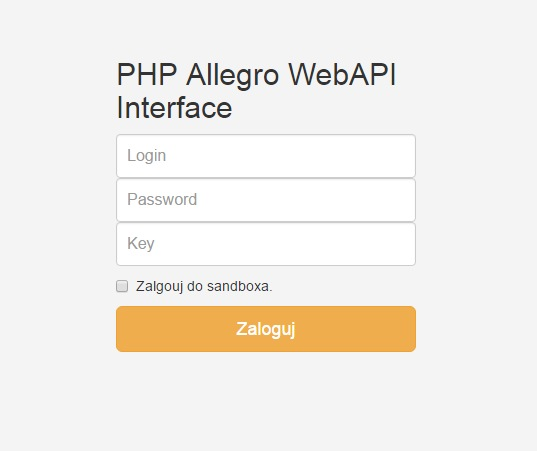
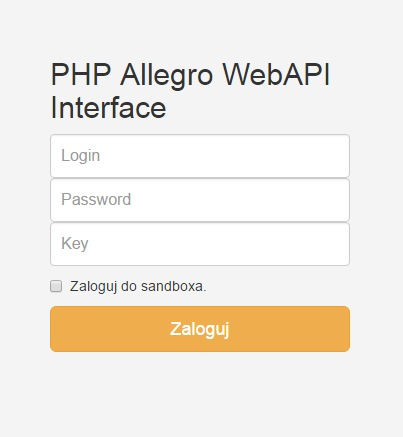
Add footer and header.php

Changed region(s): [[0.1191, 0.2975, 0.8933, 0.833], [0.1191, 0.119, 0.8337, 0.2677], [0.7444, 0.5652, 0.7742, 0.595]]

diff --git a/sell.php b/sell.php
@@ -18,69 +18,17 @@ if(!isset($_SESSION['logged']))
 
 ?>
 
-<!DOCTYPE html>
-<html lang="pl">
-  <head>
-    <meta charset="utf-8">
-    <meta name="viewport" content="width=device-width, initial-scale=1">
-    <meta name="description" content="">
-    <meta name="author" content="">
+<?php include 'includes/header.php'; ?>
 
-    <title>API Dashboard</title>
-
-    <link href="css/bootstrap.css" rel="stylesheet">
-    <link href="css/dashboard.css" rel="stylesheet">
-
-  </head>
-
-  <body>
-
-    <nav class="navbar navbar-inverse navbar-fixed-top">
-      <div class="container-fluid">
-        <div class="navbar-header">
-          <button type="button" class="navbar-toggle collapsed" data-toggle="collapse" data-target="#navbar" aria-expanded="false" aria-controls="navbar">
-            <span class="sr-only">Toggle navigation</span>
-            <span class="icon-bar"></span>
-            <span class="icon-bar"></span>
-            <span class="icon-bar"></span>
-          </button>
-          <a class="navbar-brand" href="#">Allegro API <?php if($_SESSION['sandbox_check'] == true) echo Sandbox ?> </a>
-        </div>
-        <div id="navbar" class="navbar-collapse collapse">
-          <ul class="nav navbar-nav navbar-right">
-            <li><a href="#">Dashboard</a></li>
-            <li><a href="#"><?php echo $username ?> </a></li>
-            <li><a href="logout.php">Wyloguj</a></li>
-          </ul>
-          <form class="navbar-form navbar-right">
-            <input type="text" class="form-control" placeholder="Search...">
-          </form>
-        </div>
-      </div>
-    </nav>
-
-<div class="container-fluid">
-      <div class="row">
-        <div class="col-sm-3 col-md-2 sidebar">
-          <ul class="nav nav-sidebar">
-            <li><a href="panel.php">Panel</a></li>
-            <li  class="active"><a href="sell.php">Sprzedaję</a></li>
-            <li><a href="#">Analytics</a></li>
-          </ul>
-          <ul class="nav nav-sidebar">
-            <li><a href="fids.php">Lista FID-ów</a></li>
-            <li><a href="">Nav item again</a></li>
-
-          </ul>
-          <ul class="nav nav-sidebar">
-            <li><a href="">Nav item again</a></li>
-            <li><a href="">One more nav</a></li>
-          </ul>
-        </div>
-        <div class="col-sm-9 col-sm-offset-3 col-md-10 col-md-offset-2 main">
           <h1 class="page-header">Dashboard</h1>
-
 <?php
+
+$sell_count = $client -> doMyAccountItemsCount( array(
+   'sessionHandle' => $session_handle,
+   'accountType' => 'sell',
+   'itemsArray' => array()
+    )
+);
 
 $sell = $client -> doMyAccount2( array(
     'sessionHandle' => $session_handle,
@@ -90,19 +38,13 @@ $sell = $client -> doMyAccount2( array(
     'limit' => 10
     )
 );
+echo "Ofert w kategorii Sprzedaję: ".$sell_count->myaccountItemsCount."<br><br>";
 
 print_r ($sell);
 echo "<br><hr><br>";
 
-print_r ( $sell->myaccountList->item ); //->item[0]
+print_r ( $sell->myaccountList->item[0] ); // - = pierwsza z ofert, 1 druga itp
 
 ?>
 
-        </div>
-      </div>
-    </div>
-
-    
-    
-    </body>
-</html>
+<?php include 'includes/footer.php'; ?>

diff --git a/fids.php b/fids.php
@@ -18,68 +18,9 @@ if(!isset($_SESSION['logged']))
 
 ?>
 
-<!DOCTYPE html>
-<html lang="pl">
-  <head>
-    <meta charset="utf-8">
-    <meta name="viewport" content="width=device-width, initial-scale=1">
-    <meta name="description" content="">
-    <meta name="author" content="">
+<?php include 'includes/header.php'; ?>
 
-    <title>API Dashboard</title>
-
-    <link href="css/bootstrap.css" rel="stylesheet">
-    <link href="css/dashboard.css" rel="stylesheet">
-    <link href="css/style.css" rel="stylesheet">
-
-  </head>
-
-  <body>
-
-    <nav class="navbar navbar-inverse navbar-fixed-top">
-      <div class="container-fluid">
-        <div class="navbar-header">
-          <button type="button" class="navbar-toggle collapsed" data-toggle="collapse" data-target="#navbar" aria-expanded="false" aria-controls="navbar">
-            <span class="sr-only">Toggle navigation</span>
-            <span class="icon-bar"></span>
-            <span class="icon-bar"></span>
-            <span class="icon-bar"></span>
-          </button>
-          <a class="navbar-brand" href="#">Allegro API <?php if($_SESSION['sandbox_check'] == true) echo Sandbox ?> </a>
-        </div>
-        <div id="navbar" class="navbar-collapse collapse">
-          <ul class="nav navbar-nav navbar-right">
-            <li><a href="#">Dashboard</a></li>
-            <li><a href="#"><?php echo $username ?> </a></li>
-            <li><a href="logout.php">Wyloguj</a></li>
-          </ul>
-          <form class="navbar-form navbar-right">
-            <input type="text" class="form-control" placeholder="Search..." id="search_field">
-          </form>
-        </div>
-      </div>
-    </nav>
-
-  <div class="container-fluid">
-      <div class="row">
-        <div class="col-sm-3 col-md-2 sidebar">
-          <ul class="nav nav-sidebar">
-            <li><a href="panel.php">Panel</a></li>
-            <li><a href="sell.php">Sprzedaję</a></li>
-            <li><a href="#">Analytics</a></li>
-          </ul>
-          <ul class="nav nav-sidebar">
-            <li  class="active"><a href="fids.php">Lista FID-ów</a></li>
-            <li><a href="">Nav item again</a></li>
-
-          </ul>
-          <ul class="nav nav-sidebar">
-            <li><a href="">Nav item again</a></li>
-            <li><a href="">One more nav</a></li>
-          </ul>
-        </div>
-        <div class="col-sm-9 col-sm-offset-3 col-md-10 col-md-offset-2 main">
-          <h1 class="page-header">Lista FID-ów</h1>
+  <h1 class="page-header">Lista FID-ów</h1>
 
 
 <?php
@@ -107,13 +48,4 @@ echo '</table>';
 
 ?>
 
-
-        </div>
-      </div>
-    </div>
-
-    
-    <script type="text/javascript" src="js/jquery3.js"></script>
-    <script type="text/javascript" src="js/fid_search.js"></script>
-    </body>
-</html>
+<?php include 'includes/footer.php'; ?>

diff --git a/panel.php b/panel.php
@@ -18,76 +18,8 @@ if(!isset($_SESSION['logged']))
 
 ?>
 
-<!DOCTYPE html>
-<html lang="pl">
-  <head>
-    <meta charset="utf-8">
-    <meta name="viewport" content="width=device-width, initial-scale=1">
-    <meta name="description" content="">
-    <meta name="author" content="">
+<?php include 'includes/header.php'; ?>
 
-    <title>API Dashboard</title>
-
-    <link href="css/bootstrap.css" rel="stylesheet">
-    <link href="css/dashboard.css" rel="stylesheet">
-    <link href="css/style.css" rel="stylesheet">
-
-  </head>
-
-  <body>
-
-    <nav class="navbar navbar-inverse navbar-fixed-top">
-      <div class="container-fluid">
-        <div class="navbar-header">
-          <button type="button" class="navbar-toggle collapsed" data-toggle="collapse" data-target="#navbar" aria-expanded="false" aria-controls="navbar">
-            <span class="sr-only">Toggle navigation</span>
-            <span class="icon-bar"></span>
-            <span class="icon-bar"></span>
-            <span class="icon-bar"></span>
-          </button>
-          <a class="navbar-brand" href="#">Allegro API <?php if($_SESSION['sandbox_check'] == true) echo Sandbox ?> </a>
-        </div>
-        <div id="navbar" class="navbar-collapse collapse">
-          <ul class="nav navbar-nav navbar-right">
-            <li><a href="#">Dashboard</a></li>
-            <li><a href="#"><?php echo $username ?> </a></li>
-            <li><a href="logout.php">Wyloguj</a></li>
-          </ul>
-          <form class="navbar-form navbar-right">
-            <input type="text" class="form-control" placeholder="Search...">
-          </form>
-        </div>
-      </div>
-    </nav>
-
-    <div class="container-fluid">
-      <div class="row">
-        <div class="col-sm-3 col-md-2 sidebar">
-          <ul class="nav nav-sidebar">
-            <li class="active"><a href="panel.php">Panel</a></li>
-            <li><a href="sell.php">Sprzedaję</a></li>
-            <li><a href="#">Analytics</a></li>
-          </ul>
-          <ul class="nav nav-sidebar">
-            <li><a href="fids.php">Lista FID-ów</a></li>
-            <li><a href="">Nav item again</a></li>
-
-          </ul>
-          <ul class="nav nav-sidebar">
-            <li><a href="">Nav item again</a></li>
-            <li><a href="">One more nav</a></li>
-          </ul>
-        </div>
-        <div class="col-sm-9 col-sm-offset-3 col-md-10 col-md-offset-2 main">
           <h1 class="page-header">Dashboard</h1>
 
-
-
-        </div>
-      </div>
-    </div>
-
-    
-    
-    </body>
-</html>
+<?php include 'includes/footer.php'; ?>

diff --git a/includes/header.php b/includes/header.php
@@ -1,0 +1,61 @@
+<!DOCTYPE html>
+<html lang="pl">
+  <head>
+    <meta charset="utf-8">
+    <meta name="viewport" content="width=device-width, initial-scale=1">
+    <meta name="description" content="">
+    <meta name="author" content="">
+
+    <title>API Dashboard</title>
+
+    <link href="css/bootstrap.css" rel="stylesheet">
+    <link href="css/dashboard.css" rel="stylesheet">
+    <link href="css/style.css" rel="stylesheet">
+
+  </head>
+
+  <body>
+
+    <nav class="navbar navbar-inverse navbar-fixed-top">
+      <div class="container-fluid">
+        <div class="navbar-header">
+          <button type="button" class="navbar-toggle collapsed" data-toggle="collapse" data-target="#navbar" aria-expanded="false" aria-controls="navbar">
+            <span class="sr-only">Toggle navigation</span>
+            <span class="icon-bar"></span>
+            <span class="icon-bar"></span>
+            <span class="icon-bar"></span>
+          </button>
+          <a class="navbar-brand" href="#">Allegro API <?php if($_SESSION['sandbox_check'] == true) echo Sandbox ?> </a>
+        </div>
+        <div id="navbar" class="navbar-collapse collapse">
+          <ul class="nav navbar-nav navbar-right">
+            <li><a href="#">Dashboard</a></li>
+            <li><a href="#"><?php echo $username ?> </a></li>
+            <li><a href="logout.php">Wyloguj</a></li>
+          </ul>
+          <form class="navbar-form navbar-right">
+            <input type="text" class="form-control" placeholder="Search..." id="search_field">
+          </form>
+        </div>
+      </div>
+    </nav>
+
+  <div class="container-fluid">
+      <div class="row">
+        <div class="col-sm-3 col-md-2 sidebar">
+          <ul class="nav nav-sidebar">
+            <li><a href="panel.php">Panel</a></li>
+            <li><a href="sell.php">Sprzedaję</a></li>
+            <li><a href="#">Analytics</a></li>
+          </ul>
+          <ul class="nav nav-sidebar">
+            <li><a href="fids.php">Lista FID-ów</a></li>
+            <li><a href="">Nav item again</a></li>
+
+          </ul>
+          <ul class="nav nav-sidebar">
+            <li><a href="">Nav item again</a></li>
+            <li><a href="">One more nav</a></li>
+          </ul>
+        </div>
+        <div class="col-sm-9 col-sm-offset-3 col-md-10 col-md-offset-2 main">

diff --git a/index.php b/index.php
@@ -28,7 +28,7 @@ session_start();
 	
 		<div class="checkbox">
           <label>
-            <input type="checkbox" name ="sandbox_check"> Zalgouj do sandboxa.
+            <input type="checkbox" name ="sandbox_check"> Zaloguj do sandboxa.
           </label>
         </div>
       

diff --git a/includes/footer.php b/includes/footer.php
@@ -1,0 +1,9 @@
+        </div>
+      </div>
+    </div>
+
+    
+    <script type="text/javascript" src="js/jquery3.js"></script>
+    <script type="text/javascript" src="js/fid_search.js"></script>
+    </body>
+</html>
